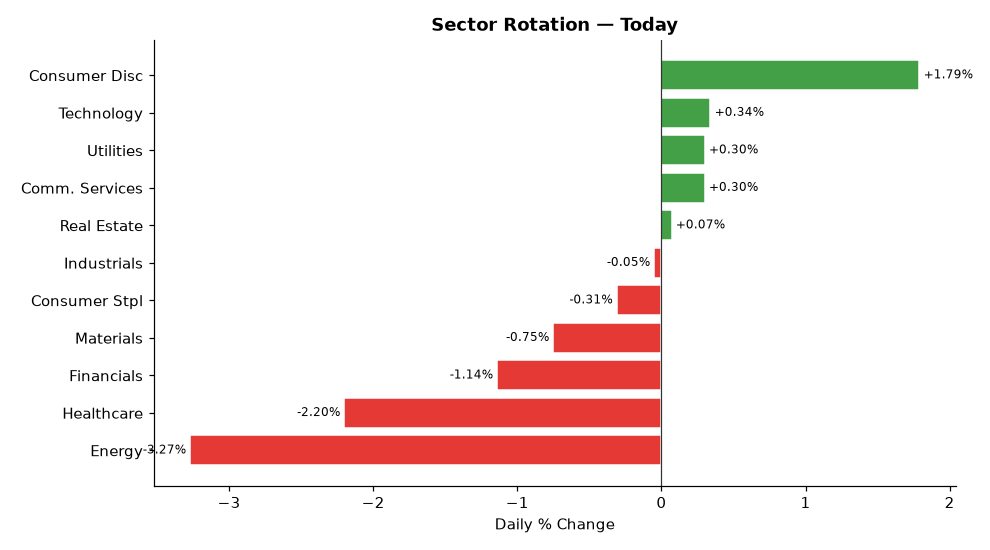
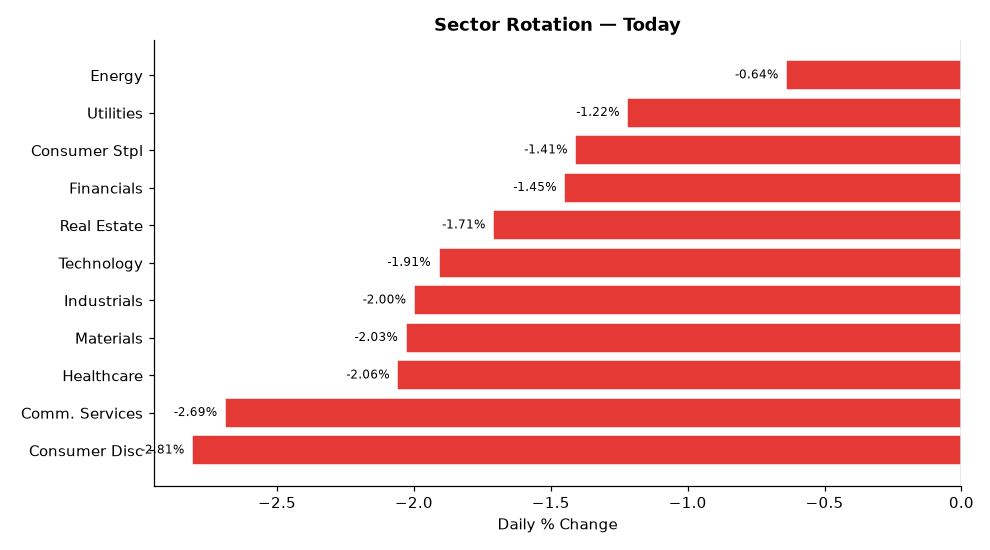
deploy: b7fadf5b06deb90e7ebb92f278722414bdd9750d

diff --git a/index.html b/index.html
@@ -4,7 +4,7 @@
   <meta charset="UTF-8">
   <meta name="viewport" content="width=device-width,initial-scale=1">
   <meta http-equiv="Cache-Control" content="no-cache,no-store,must-revalidate">
-  <title>Stock Breakout Screener — 2026-11-19 06:47</title>
+  <title>Stock Breakout Screener — 2026-11-19 21:08</title>
   <style>
     *{box-sizing:border-box;margin:0;padding:0}
     body{font-family:'Segoe UI',Arial,sans-serif;background:#f0f2f5;
@@ -34,20 +34,20 @@
 
 <div class="hdr">
   <h1>📈 Stock Breakout Screener</h1>
-  <p>Updated: 2026-11-19 06:47 UTC &nbsp;·&nbsp; Phase: Pre-Market (before 9:30 AM ET) &nbsp;·&nbsp;
+  <p>Updated: 2026-11-19 21:08 UTC &nbsp;·&nbsp; Phase: After-Hours (4:00–8:00 PM ET) &nbsp;·&nbsp;
      129 stocks screened &nbsp;·&nbsp; Top 5 by conviction score</p>
 </div>
 
 <div class="card">
   <strong style="font-size:14px">Market Sentiment: 🐻 Bearish</strong>
   <div class="bar-wrap" style="margin-top:10px">
-    <div style="width:2%;background:#43a047"></div>
-    <div style="width:6%;background:#fdd835"></div>
+    <div style="width:0%;background:#43a047"></div>
+    <div style="width:8%;background:#fdd835"></div>
     <div style="width:92%;background:#e53935"></div>
   </div>
   <div style="font-size:12px;color:#555">
-    🟢 Strong 2% &nbsp;
-    🟡 Moderate 6% &nbsp;
+    🟢 Strong 0% &nbsp;
+    🟡 Moderate 8% &nbsp;
     🔴 Weak 92%
   </div>
 </div>
@@ -59,34 +59,17 @@
                     box-shadow:0 2px 6px rgba(0,0,0,.07)">
           <div style="display:flex;align-items:center;gap:10px;
                       flex-wrap:wrap;margin-bottom:10px">
-            <span style="font-size:22px">🟢</span>
-            <span style="font-size:19px;font-weight:700">1. TGT</span>
-            <span style="font-size:12px;color:#666">Consumer Disc</span>
+            <span style="font-size:22px">🟡</span>
+            <span style="font-size:19px;font-weight:700">1. PG</span>
+            <span style="font-size:12px;color:#666">Consumer Stpl</span>
             <span style="margin-left:auto;background:#1a237e;color:#fff;
                          padding:3px 12px;border-radius:12px;
                          font-size:13px;font-weight:600">
-              14/17
+              9/17
             </span>
           </div>
           <ul style="margin:0;padding-left:18px;font-size:13px;
-                     color:#333;line-height:1.8"><li style="margin:5px 0"><span style="background:#e8f5e9;color:#2e7d32;padding:2px 7px;border-radius:4px;font-size:11px;">✅</span> Volume: <b>2.7× average</b> — 🔥 Strong unusual activity</li><li style="margin:5px 0"><span style="background:#e8f5e9;color:#2e7d32;padding:2px 7px;border-radius:4px;font-size:11px;">✅</span> Candle: close <b>$165.93</b> vs open <b>$160.99</b> (+3.1%) — regular market close</li><li style="margin:5px 0"><span style="background:#e8f5e9;color:#2e7d32;padding:2px 7px;border-radius:4px;font-size:11px;">✅</span> 200-Day MA: price <b>$165.93</b> vs MA <b>$145.73</b> — <b>✅ Above</b> long-term trend</li><li style="margin:5px 0"><span style="background:#e8f5e9;color:#2e7d32;padding:2px 7px;border-radius:4px;font-size:11px;">✅</span> Inst. ownership: <b>89.2%</b> · MFI: <b>56.6</b> · Market cap: <b>$75.4B</b></li><li style="margin:5px 0"><span style="background:#fffde7;color:#f57f17;padding:2px 7px;border-radius:4px;font-size:11px;">⚠</span> Last similar breakout: <b>Aug 19, 2026</b> → <b>+2.7%</b> over 10 trading days</li></ul>
-        </div>
-        <div style="background:#fff;border:1px solid #ddd;border-radius:10px;
-                    padding:16px 20px;margin-bottom:12px;
-                    box-shadow:0 2px 6px rgba(0,0,0,.07)">
-          <div style="display:flex;align-items:center;gap:10px;
-                      flex-wrap:wrap;margin-bottom:10px">
-            <span style="font-size:22px">🟢</span>
-            <span style="font-size:19px;font-weight:700">2. LOW</span>
-            <span style="font-size:12px;color:#666">Consumer Disc</span>
-            <span style="margin-left:auto;background:#1a237e;color:#fff;
-                         padding:3px 12px;border-radius:12px;
-                         font-size:13px;font-weight:600">
-              12/17
-            </span>
-          </div>
-          <ul style="margin:0;padding-left:18px;font-size:13px;
-                     color:#333;line-height:1.8"><li style="margin:5px 0"><span style="background:#fffde7;color:#f57f17;padding:2px 7px;border-radius:4px;font-size:11px;">⚠</span> Volume: <b>1.6× average</b> — Above-average activity</li><li style="margin:5px 0"><span style="background:#e8f5e9;color:#2e7d32;padding:2px 7px;border-radius:4px;font-size:11px;">✅</span> Candle: close <b>$222.78</b> vs open <b>$212.07</b> (+5.1%) — regular market close</li><li style="margin:5px 0"><span style="background:#e8f5e9;color:#2e7d32;padding:2px 7px;border-radius:4px;font-size:11px;">✅</span> 200-Day MA: price <b>$222.78</b> vs MA <b>$207.34</b> — <b>✅ Above</b> long-term trend</li><li style="margin:5px 0"><span style="background:#e8f5e9;color:#2e7d32;padding:2px 7px;border-radius:4px;font-size:11px;">✅</span> Inst. ownership: <b>81.1%</b> · MFI: <b>39.1</b> · Market cap: <b>$125.0B</b></li></ul>
+                     color:#333;line-height:1.8"><li style="margin:5px 0"><span style="background:#ffebee;color:#b71c1c;padding:2px 7px;border-radius:4px;font-size:11px;">❌</span> Volume: <b>0.7× average</b> — Above-average activity</li><li style="margin:5px 0"><span style="background:#ffebee;color:#b71c1c;padding:2px 7px;border-radius:4px;font-size:11px;">❌</span> Candle: close <b>$167.91</b> vs open <b>$167.91</b> (+0.0%) — regular market close</li><li style="margin:5px 0"><span style="background:#e8f5e9;color:#2e7d32;padding:2px 7px;border-radius:4px;font-size:11px;">✅</span> 200-Day MA: price <b>$167.91</b> vs MA <b>$149.18</b> — <b>✅ Above</b> long-term trend</li><li style="margin:5px 0"><span style="background:#e8f5e9;color:#2e7d32;padding:2px 7px;border-radius:4px;font-size:11px;">✅</span> Inst. ownership: <b>72.2%</b> · MFI: <b>63.2</b> · Market cap: <b>$389.2B</b></li></ul>
         </div>
         <div style="background:#fff;border:1px solid #ddd;border-radius:10px;
                     padding:16px 20px;margin-bottom:12px;
@@ -94,16 +77,16 @@
           <div style="display:flex;align-items:center;gap:10px;
                       flex-wrap:wrap;margin-bottom:10px">
             <span style="font-size:22px">🟡</span>
-            <span style="font-size:19px;font-weight:700">3. AMZN</span>
-            <span style="font-size:12px;color:#666">Consumer Disc</span>
+            <span style="font-size:19px;font-weight:700">2. XOM</span>
+            <span style="font-size:12px;color:#666">Energy</span>
             <span style="margin-left:auto;background:#1a237e;color:#fff;
                          padding:3px 12px;border-radius:12px;
                          font-size:13px;font-weight:600">
-              10/17
+              9/17
             </span>
           </div>
           <ul style="margin:0;padding-left:18px;font-size:13px;
-                     color:#333;line-height:1.8"><li style="margin:5px 0"><span style="background:#ffebee;color:#b71c1c;padding:2px 7px;border-radius:4px;font-size:11px;">❌</span> Volume: <b>0.9× average</b> — Above-average activity</li><li style="margin:5px 0"><span style="background:#e8f5e9;color:#2e7d32;padding:2px 7px;border-radius:4px;font-size:11px;">✅</span> Candle: close <b>$267.74</b> vs open <b>$259.81</b> (+3.1%) — regular market close</li><li style="margin:5px 0"><span style="background:#e8f5e9;color:#2e7d32;padding:2px 7px;border-radius:4px;font-size:11px;">✅</span> 200-Day MA: price <b>$267.74</b> vs MA <b>$253.76</b> — <b>✅ Above</b> long-term trend</li><li style="margin:5px 0"><span style="background:#e8f5e9;color:#2e7d32;padding:2px 7px;border-radius:4px;font-size:11px;">✅</span> Inst. ownership: <b>69.0%</b> · MFI: <b>48.4</b> · Market cap: <b>$2895.1B</b></li></ul>
+                     color:#333;line-height:1.8"><li style="margin:5px 0"><span style="background:#ffebee;color:#b71c1c;padding:2px 7px;border-radius:4px;font-size:11px;">❌</span> Volume: <b>0.6× average</b> — Above-average activity</li><li style="margin:5px 0"><span style="background:#ffebee;color:#b71c1c;padding:2px 7px;border-radius:4px;font-size:11px;">❌</span> Candle: close <b>$158.95</b> vs open <b>$161.32</b> (-1.5%) — regular market close</li><li style="margin:5px 0"><span style="background:#e8f5e9;color:#2e7d32;padding:2px 7px;border-radius:4px;font-size:11px;">✅</span> 200-Day MA: price <b>$158.95</b> vs MA <b>$157.03</b> — <b>✅ Above</b> long-term trend</li><li style="margin:5px 0"><span style="background:#e8f5e9;color:#2e7d32;padding:2px 7px;border-radius:4px;font-size:11px;">✅</span> Inst. ownership: <b>67.1%</b> · MFI: <b>17.9</b> · Market cap: <b>$648.4B</b></li></ul>
         </div>
         <div style="background:#fff;border:1px solid #ddd;border-radius:10px;
                     padding:16px 20px;margin-bottom:12px;
@@ -111,16 +94,16 @@
           <div style="display:flex;align-items:center;gap:10px;
                       flex-wrap:wrap;margin-bottom:10px">
             <span style="font-size:22px">🟡</span>
-            <span style="font-size:19px;font-weight:700">4. DUK</span>
-            <span style="font-size:12px;color:#666">Utilities</span>
+            <span style="font-size:19px;font-weight:700">3. CVX</span>
+            <span style="font-size:12px;color:#666">Energy</span>
             <span style="margin-left:auto;background:#1a237e;color:#fff;
                          padding:3px 12px;border-radius:12px;
                          font-size:13px;font-weight:600">
-              10/17
+              9/17
             </span>
           </div>
           <ul style="margin:0;padding-left:18px;font-size:13px;
-                     color:#333;line-height:1.8"><li style="margin:5px 0"><span style="background:#fffde7;color:#f57f17;padding:2px 7px;border-radius:4px;font-size:11px;">⚠</span> Volume: <b>1.9× average</b> — Above-average activity</li><li style="margin:5px 0"><span style="background:#fffde7;color:#f57f17;padding:2px 7px;border-radius:4px;font-size:11px;">⚠</span> Candle: close <b>$130.05</b> vs open <b>$128.54</b> (+1.2%) — regular market close</li><li style="margin:5px 0"><span style="background:#e8f5e9;color:#2e7d32;padding:2px 7px;border-radius:4px;font-size:11px;">✅</span> 200-Day MA: price <b>$130.05</b> vs MA <b>$121.65</b> — <b>✅ Above</b> long-term trend</li><li style="margin:5px 0"><span style="background:#e8f5e9;color:#2e7d32;padding:2px 7px;border-radius:4px;font-size:11px;">✅</span> Inst. ownership: <b>70.9%</b> · MFI: <b>65.9</b> · Market cap: <b>$101.4B</b></li></ul>
+                     color:#333;line-height:1.8"><li style="margin:5px 0"><span style="background:#ffebee;color:#b71c1c;padding:2px 7px;border-radius:4px;font-size:11px;">❌</span> Volume: <b>0.8× average</b> — Above-average activity</li><li style="margin:5px 0"><span style="background:#ffebee;color:#b71c1c;padding:2px 7px;border-radius:4px;font-size:11px;">❌</span> Candle: close <b>$206.58</b> vs open <b>$207.48</b> (-0.4%) — regular market close</li><li style="margin:5px 0"><span style="background:#e8f5e9;color:#2e7d32;padding:2px 7px;border-radius:4px;font-size:11px;">✅</span> 200-Day MA: price <b>$206.58</b> vs MA <b>$197.29</b> — <b>✅ Above</b> long-term trend</li><li style="margin:5px 0"><span style="background:#e8f5e9;color:#2e7d32;padding:2px 7px;border-radius:4px;font-size:11px;">✅</span> Inst. ownership: <b>72.3%</b> · MFI: <b>19.0</b> · Market cap: <b>$403.1B</b></li></ul>
         </div>
         <div style="background:#fff;border:1px solid #ddd;border-radius:10px;
                     padding:16px 20px;margin-bottom:12px;
@@ -128,16 +111,33 @@
           <div style="display:flex;align-items:center;gap:10px;
                       flex-wrap:wrap;margin-bottom:10px">
             <span style="font-size:22px">🟡</span>
-            <span style="font-size:19px;font-weight:700">5. MCD</span>
-            <span style="font-size:12px;color:#666">Consumer Disc</span>
+            <span style="font-size:19px;font-weight:700">4. COST</span>
+            <span style="font-size:12px;color:#666">Consumer Stpl</span>
             <span style="margin-left:auto;background:#1a237e;color:#fff;
                          padding:3px 12px;border-radius:12px;
                          font-size:13px;font-weight:600">
-              10/17
+              9/17
             </span>
           </div>
           <ul style="margin:0;padding-left:18px;font-size:13px;
-                     color:#333;line-height:1.8"><li style="margin:5px 0"><span style="background:#ffebee;color:#b71c1c;padding:2px 7px;border-radius:4px;font-size:11px;">❌</span> Volume: <b>1.0× average</b> — Above-average activity</li><li style="margin:5px 0"><span style="background:#ffebee;color:#b71c1c;padding:2px 7px;border-radius:4px;font-size:11px;">❌</span> Candle: close <b>$274.03</b> vs open <b>$272.29</b> (+0.6%) — regular market close</li><li style="margin:5px 0"><span style="background:#e8f5e9;color:#2e7d32;padding:2px 7px;border-radius:4px;font-size:11px;">✅</span> 200-Day MA: price <b>$274.03</b> vs MA <b>$262.90</b> — <b>✅ Above</b> long-term trend</li><li style="margin:5px 0"><span style="background:#e8f5e9;color:#2e7d32;padding:2px 7px;border-radius:4px;font-size:11px;">✅</span> Inst. ownership: <b>75.8%</b> · MFI: <b>55.3</b> · Market cap: <b>$193.4B</b></li><li style="margin:5px 0"><span style="background:#ffebee;color:#b71c1c;padding:2px 7px;border-radius:4px;font-size:11px;">❌</span> Last similar breakout: <b>Nov 04, 2026</b> → <b>-2.2%</b> over 10 trading days</li></ul>
+                     color:#333;line-height:1.8"><li style="margin:5px 0"><span style="background:#ffebee;color:#b71c1c;padding:2px 7px;border-radius:4px;font-size:11px;">❌</span> Volume: <b>0.9× average</b> — Above-average activity</li><li style="margin:5px 0"><span style="background:#ffebee;color:#b71c1c;padding:2px 7px;border-radius:4px;font-size:11px;">❌</span> Candle: close <b>$1093.83</b> vs open <b>$1089.00</b> (+0.4%) — regular market close</li><li style="margin:5px 0"><span style="background:#e8f5e9;color:#2e7d32;padding:2px 7px;border-radius:4px;font-size:11px;">✅</span> 200-Day MA: price <b>$1093.83</b> vs MA <b>$963.32</b> — <b>✅ Above</b> long-term trend</li><li style="margin:5px 0"><span style="background:#e8f5e9;color:#2e7d32;padding:2px 7px;border-radius:4px;font-size:11px;">✅</span> Inst. ownership: <b>74.5%</b> · MFI: <b>75.6</b> · Market cap: <b>$484.7B</b></li></ul>
+        </div>
+        <div style="background:#fff;border:1px solid #ddd;border-radius:10px;
+                    padding:16px 20px;margin-bottom:12px;
+                    box-shadow:0 2px 6px rgba(0,0,0,.07)">
+          <div style="display:flex;align-items:center;gap:10px;
+                      flex-wrap:wrap;margin-bottom:10px">
+            <span style="font-size:22px">🟡</span>
+            <span style="font-size:19px;font-weight:700">5. KO</span>
+            <span style="font-size:12px;color:#666">Consumer Stpl</span>
+            <span style="margin-left:auto;background:#1a237e;color:#fff;
+                         padding:3px 12px;border-radius:12px;
+                         font-size:13px;font-weight:600">
+              9/17
+            </span>
+          </div>
+          <ul style="margin:0;padding-left:18px;font-size:13px;
+                     color:#333;line-height:1.8"><li style="margin:5px 0"><span style="background:#ffebee;color:#b71c1c;padding:2px 7px;border-radius:4px;font-size:11px;">❌</span> Volume: <b>1.1× average</b> — Above-average activity</li><li style="margin:5px 0"><span style="background:#ffebee;color:#b71c1c;padding:2px 7px;border-radius:4px;font-size:11px;">❌</span> Candle: close <b>$96.10</b> vs open <b>$96.21</b> (-0.1%) — regular market close</li><li style="margin:5px 0"><span style="background:#e8f5e9;color:#2e7d32;padding:2px 7px;border-radius:4px;font-size:11px;">✅</span> 200-Day MA: price <b>$96.10</b> vs MA <b>$86.79</b> — <b>✅ Above</b> long-term trend</li><li style="margin:5px 0"><span style="background:#e8f5e9;color:#2e7d32;padding:2px 7px;border-radius:4px;font-size:11px;">✅</span> Inst. ownership: <b>68.3%</b> · MFI: <b>67.1</b> · Market cap: <b>$413.4B</b></li></ul>
         </div>
 
 
@@ -168,93 +168,93 @@
   
         <tr>
           <td style="font-weight:700;text-align:left;padding-left:10px">
-            🟢 TGT</td>
-          <td style="background:#c8e6c9">2.7×</td>
-          <td style="background:#c8e6c9">+3.1%</td>
+            🟡 PG</td>
+          <td style="background:#ffcdd2">0.7×</td>
+          <td style="background:#ffcdd2">+0.0%</td>
           <td style="background:#c8e6c9">
             ▲ Above</td>
           <td style="background:#c8e6c9">
-            89.2%</td>
-          <td style="background:#fff9c4">
-            56.6</td>
-          <td style="background:#c8e6c9">Consumer Disc</td>
-          <td style="background:#ffcdd2">
-            8.7%</td>
-          <td style="background:#fff9c4">
-            +2.7%</td>
-          <td style="font-weight:800;font-size:15px">14/17</td>
-        </tr>
-        <tr>
-          <td style="font-weight:700;text-align:left;padding-left:10px">
-            🟢 LOW</td>
-          <td style="background:#fff9c4">1.6×</td>
-          <td style="background:#c8e6c9">+5.1%</td>
+            72.2%</td>
           <td style="background:#c8e6c9">
-            ▲ Above</td>
+            63.2</td>
+          <td style="background:#fff9c4">Consumer Stpl</td>
           <td style="background:#c8e6c9">
-            81.1%</td>
-          <td style="background:#ffcdd2">
-            39.1</td>
-          <td style="background:#c8e6c9">Consumer Disc</td>
-          <td style="background:#c8e6c9">
-            31.5%</td>
+            212.2%</td>
           <td style="background:#ffcdd2">
             N/A</td>
-          <td style="font-weight:800;font-size:15px">12/17</td>
+          <td style="font-weight:800;font-size:15px">9/17</td>
         </tr>
         <tr>
           <td style="font-weight:700;text-align:left;padding-left:10px">
-            🟡 AMZN</td>
+            🟡 XOM</td>
+          <td style="background:#ffcdd2">0.6×</td>
+          <td style="background:#ffcdd2">-1.5%</td>
+          <td style="background:#c8e6c9">
+            ▲ Above</td>
+          <td style="background:#c8e6c9">
+            67.1%</td>
+          <td style="background:#ffcdd2">
+            17.9</td>
+          <td style="background:#c8e6c9">Energy</td>
+          <td style="background:#c8e6c9">
+            164.3%</td>
+          <td style="background:#ffcdd2">
+            N/A</td>
+          <td style="font-weight:800;font-size:15px">9/17</td>
+        </tr>
+        <tr>
+          <td style="font-weight:700;text-align:left;padding-left:10px">
+            🟡 CVX</td>
+          <td style="background:#ffcdd2">0.8×</td>
+          <td style="background:#ffcdd2">-0.4%</td>
+          <td style="background:#c8e6c9">
+            ▲ Above</td>
+          <td style="background:#c8e6c9">
+            72.3%</td>
+          <td style="background:#ffcdd2">
+            19.0</td>
+          <td style="background:#c8e6c9">Energy</td>
+          <td style="background:#c8e6c9">
+            147.2%</td>
+          <td style="background:#ffcdd2">
+            N/A</td>
+          <td style="font-weight:800;font-size:15px">9/17</td>
+        </tr>
+        <tr>
+          <td style="font-weight:700;text-align:left;padding-left:10px">
+            🟡 COST</td>
           <td style="background:#ffcdd2">0.9×</td>
-          <td style="background:#c8e6c9">+3.1%</td>
+          <td style="background:#ffcdd2">+0.4%</td>
           <td style="background:#c8e6c9">
             ▲ Above</td>
           <td style="background:#c8e6c9">
-            69.0%</td>
-          <td style="background:#ffcdd2">
-            48.4</td>
-          <td style="background:#c8e6c9">Consumer Disc</td>
-          <td style="background:#fff9c4">
-            15.4%</td>
+            74.5%</td>
+          <td style="background:#c8e6c9">
+            75.6</td>
+          <td style="background:#fff9c4">Consumer Stpl</td>
+          <td style="background:#c8e6c9">
+            99.8%</td>
           <td style="background:#ffcdd2">
             N/A</td>
-          <td style="font-weight:800;font-size:15px">10/17</td>
+          <td style="font-weight:800;font-size:15px">9/17</td>
         </tr>
         <tr>
           <td style="font-weight:700;text-align:left;padding-left:10px">
-            🟡 DUK</td>
-          <td style="background:#fff9c4">1.9×</td>
-          <td style="background:#fff9c4">+1.2%</td>
+            🟡 KO</td>
+          <td style="background:#ffcdd2">1.1×</td>
+          <td style="background:#ffcdd2">-0.1%</td>
           <td style="background:#c8e6c9">
             ▲ Above</td>
           <td style="background:#c8e6c9">
-            70.9%</td>
+            68.3%</td>
           <td style="background:#c8e6c9">
-            65.9</td>
-          <td style="background:#fff9c4">Utilities</td>
-          <td style="background:#ffcdd2">
-            5.7%</td>
+            67.1</td>
+          <td style="background:#fff9c4">Consumer Stpl</td>
+          <td style="background:#c8e6c9">
+            141.1%</td>
           <td style="background:#ffcdd2">
             N/A</td>
-          <td style="font-weight:800;font-size:15px">10/17</td>
-        </tr>
-        <tr>
-          <td style="font-weight:700;text-align:left;padding-left:10px">
-            🟡 MCD</td>
-          <td style="background:#ffcdd2">1.0×</td>
-          <td style="background:#ffcdd2">+0.6%</td>
-          <td style="background:#c8e6c9">
-            ▲ Above</td>
-          <td style="background:#c8e6c9">
-            75.8%</td>
-          <td style="background:#fff9c4">
-            55.3</td>
-          <td style="background:#c8e6c9">Consumer Disc</td>
-          <td style="background:#c8e6c9">
-            26.9%</td>
-          <td style="background:#ffcdd2">
-            -2.2%</td>
-          <td style="font-weight:800;font-size:15px">10/17</td>
+          <td style="font-weight:800;font-size:15px">9/17</td>
         </tr>
 </table>
 </div>
@@ -277,58 +277,58 @@
       
         <tr>
           <td style="text-align:left;padding-left:10px;font-weight:600">
-            #1 Consumer Disc</td>
-          <td style="background:#e8f5e9;color:#2e7d32;font-weight:700">+1.79%</td>
+            #1 Energy</td>
+          <td style="background:#ffebee;color:#c62828;font-weight:700">-0.64%</td>
         </tr>
         <tr>
           <td style="text-align:left;padding-left:10px;font-weight:600">
-            #2 Technology</td>
-          <td style="background:#e8f5e9;color:#2e7d32;font-weight:700">+0.34%</td>
+            #2 Utilities</td>
+          <td style="background:#ffebee;color:#c62828;font-weight:700">-1.22%</td>
         </tr>
         <tr>
           <td style="text-align:left;padding-left:10px;font-weight:600">
-            #3 Utilities</td>
-          <td style="background:#e8f5e9;color:#2e7d32;font-weight:700">+0.30%</td>
+            #3 Consumer Stpl</td>
+          <td style="background:#ffebee;color:#c62828;font-weight:700">-1.41%</td>
         </tr>
         <tr>
           <td style="text-align:left;padding-left:10px;font-weight:600">
-            #4 Comm. Services</td>
-          <td style="background:#e8f5e9;color:#2e7d32;font-weight:700">+0.30%</td>
+            #4 Financials</td>
+          <td style="background:#ffebee;color:#c62828;font-weight:700">-1.45%</td>
         </tr>
         <tr>
           <td style="text-align:left;padding-left:10px;font-weight:600">
             #5 Real Estate</td>
-          <td style="background:#e8f5e9;color:#2e7d32;font-weight:700">+0.07%</td>
+          <td style="background:#ffebee;color:#c62828;font-weight:700">-1.71%</td>
         </tr>
         <tr>
           <td style="text-align:left;padding-left:10px;font-weight:600">
-            #6 Industrials</td>
-          <td style="background:#ffebee;color:#c62828;font-weight:700">-0.05%</td>
+            #6 Technology</td>
+          <td style="background:#ffebee;color:#c62828;font-weight:700">-1.91%</td>
         </tr>
         <tr>
           <td style="text-align:left;padding-left:10px;font-weight:600">
-            #7 Consumer Stpl</td>
-          <td style="background:#ffebee;color:#c62828;font-weight:700">-0.31%</td>
+            #7 Industrials</td>
+          <td style="background:#ffebee;color:#c62828;font-weight:700">-2.00%</td>
         </tr>
         <tr>
           <td style="text-align:left;padding-left:10px;font-weight:600">
             #8 Materials</td>
-          <td style="background:#ffebee;color:#c62828;font-weight:700">-0.75%</td>
+          <td style="background:#ffebee;color:#c62828;font-weight:700">-2.03%</td>
         </tr>
         <tr>
           <td style="text-align:left;padding-left:10px;font-weight:600">
-            #9 Financials</td>
-          <td style="background:#ffebee;color:#c62828;font-weight:700">-1.14%</td>
+            #9 Healthcare</td>
+          <td style="background:#ffebee;color:#c62828;font-weight:700">-2.06%</td>
         </tr>
         <tr>
           <td style="text-align:left;padding-left:10px;font-weight:600">
-            #10 Healthcare</td>
-          <td style="background:#ffebee;color:#c62828;font-weight:700">-2.20%</td>
+            #10 Comm. Services</td>
+          <td style="background:#ffebee;color:#c62828;font-weight:700">-2.69%</td>
         </tr>
         <tr>
           <td style="text-align:left;padding-left:10px;font-weight:600">
-            #11 Energy</td>
-          <td style="background:#ffebee;color:#c62828;font-weight:700">-3.27%</td>
+            #11 Consumer Disc</td>
+          <td style="background:#ffebee;color:#c62828;font-weight:700">-2.81%</td>
         </tr>
     </table>
   </div>
@@ -367,7 +367,7 @@
         <li><b>Scoring weights:</b>
             Inst.Own(3) · Sector(3) · Volume(2) · Breakout(2) ·
             MA200(2) · MFI(2) · History(2) · IV(1) = 17pts max</li>
-        <li><b>Run time:</b> 2026-11-19 06:47 UTC — Market phase: Pre-Market (before 9:30 AM ET)</li>
+        <li><b>Run time:</b> 2026-11-19 21:08 UTC — Market phase: After-Hours (4:00–8:00 PM ET)</li>
       </ul>
     </div>
 
